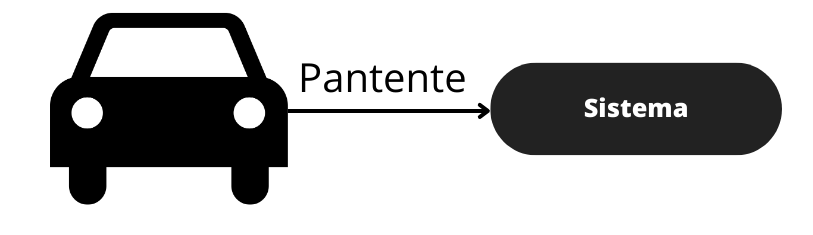
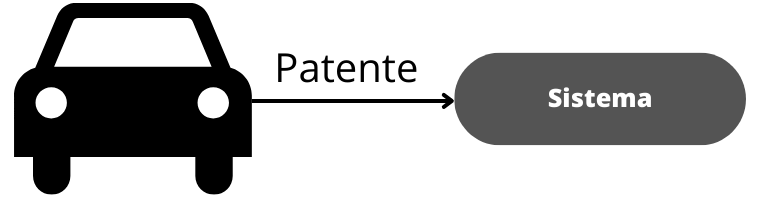
fix: correcciones cap 5 sofi

diff --git a/chapters/05-server/index.tex b/chapters/05-server/index.tex
@@ -1,20 +1,19 @@
 \chapter{Diseño e implementación del servidor}
 
-En este capítulo se explicara el diseño y la implementación del server. En la Fig. \ref{fig:server-final} se observa la versión final del servicio, mostrando la interacción entre los Clientes, los sistemas SL y el Server.
+En este capítulo se explicará el diseño y la implementación del server. En la Fig. \ref{fig:server-final} se observa la versión final del servicio, mostrando la interacción entre los Clientes, los sistemas SL y el Server.
 
 \begin{figure}[h]
     \centering
-    \includegraphics[width=.4\textwidth]{imgs/server-esquema.png}
+    \includegraphics[width=.6\textwidth]{imgs/server-esquema.png}
     \caption{Esquema final del servidor.}
     \label{fig:server-final}
 \end{figure}
 
-
 \section{Actualidad del desarrollo web}
 
-En la web existen dos grandes mundos, el Frontend el cual es la parte de la web con la que interactuan los usuarios o clientes. Otra parte fundamental es el Backend que es la parte que se conecta con la base de datos y ejecuta las validaciones necesarias para leer o escribir información. En general, el frontend y el backend suelen ser 2 proyectos separados y pueden ser construidos en diferentes lenguajes. Los lenguajes más utilizados son: JavaScript (JS), Python, Ruby, entre otros \cite{presta_10_2021}.
+En la web existen dos grandes mundos: el Frontend es la parte de la web con la que interactúan los usuarios o clientes. El Backend que es la parte que se conecta con la base de datos y ejecuta las validaciones necesarias para leer o escribir información. En general, el frontend y el backend suelen ser 2 proyectos separados y pueden ser construidos en diferentes lenguajes. Los lenguajes más utilizados son: JavaScript (JS), Python, Ruby, entre otros \cite{presta_10_2021}.
 
-En la actualidad el formato más utilizado para trasmitir información entre el Backend y el Frontend es JSON de sus siglas en inglés JavaScript Object Notation o traducido como notación de objetos de JavaScript. En la Fig. \ref{fig:ejemplo-json} se observa un ejemplo de JSON este tipo de notación se caracteriza por almacenar los datos en forma clave-valor, permitiendo que la busqueda de información sea facil.
+En la actualidad el formato más utilizado para trasmitir información entre el Backend y el Frontend se utiliza el formato JSON de sus siglas en inglés JavaScript Object Notation o traducido como notación de objetos de JavaScript. En la Fig. \ref{fig:ejemplo-json} se observa un ejemplo de JSON. Este tipo de notación se caracteriza por almacenar los datos en forma clave-valor, permitiendo que el acceso a la información sea rápido y sencillo.
 
 \begin{figure}
     \centering
@@ -23,20 +22,19 @@ En la actualidad el formato más utilizado para trasmitir información entre el 
     \label{fig:ejemplo-json}
 \end{figure}
 
-Hoy en día la web se ha transformado en la base de cualquier organización, hace años las organizaciones solían usar aplicaciones de escritorio, pero en la actualidad las aplicaciones web han ganado el mercado.
+Hoy en día la web se ha transformado en la base de cualquier organización, hace años las organizaciones solían usar aplicaciones de escritorio, pero en la actualidad las aplicaciones web han dominado el mercado.
 
 \section{Docker}
-
 
 Docker es una tecnología open source desarrollada por Docker Inc, la cual permite correr aplicaciones de forma aislada en contenedores.
 
 \subsection{¿Qué es un contenedor?}
 
-Un contenedor funciona casi como una máquina virtual, pero sin entorno gráfico y compartiendo el Kernel \cite{keepcoding_que_2022} con el sistema que lo hospeda, lo que hace que los contenedores sean más livianos y mucho más rápidos que una máquina virtual, ya que estas últimas emulan todo el sistema e incluyen un puente entren el kernel del sistema padre y el sistema emulado. Por lo que cada contenedor puede suele estar especializado para cumplir una determinada tarea, a esos contenedores se los suele llamar servicios.
+Un contenedor funciona casi como una máquina virtual, pero sin entorno gráfico y compartiendo el Kernel \cite{keepcoding_que_2022} con el sistema que lo hospeda, lo que hace que los contenedores sean más livianos y mucho más rápidos que una máquina virtual, ya que estas últimas emulan todo el sistema e incluyen un puente entren el kernel del sistema padre y el sistema emulado. Cada contenedor suele especializado para cumplir una determinada tarea, en general se los denomina servicios.
 
 \subsection{Docker Compose}
 
-Docker es una tecnología muy utilizada pero por si sola puede ejecutar un unico contenedor a la vez, es por ello que existen herramientas para la administración de multiples contenedores en simultanio. La más conocida, y muy utilizada en el mundo del desarrollo es Kubernetes [cita a kubernetes]. Debido a que el sistema no es lo suficientemente grande y no se cuenta con multiples servidores para alojar los servicios, la implementación se realizo mediante Docker Compose \cite{docker_inc_docker_2023}, el cual cumple un rol muy similar a Kubernetes, pero sin tanta complejidad extra que trae la opción de administrar multiples servidores.
+Docker es una tecnología muy utilizada, pero por si sola puede ejecutar un único contenedor a la vez, es por ello que existen herramientas para la administración de múltiples contenedores en simultáneo. La más conocida, y muy utilizada en el mundo del desarrollo, es Kubernetes. Debido a que el sistema no es lo suficientemente grande y no se cuenta con múltiples servidores para alojar los servicios, la implementación se realizó mediante Docker Compose \cite{docker_inc_docker_2023}, el cual cumple un rol muy similar a Kubernetes, pero sin tanta complejidad extra que trae la opción de administrar múltiples servidores.
 \begin{figure}
     \centering
     \includegraphics[width=.5\textwidth]{imgs/docker-compose.png}
@@ -44,95 +42,170 @@ Docker es una tecnología muy utilizada pero por si sola puede ejecutar un unico
     \label{fig:docker-compose-yml}
 \end{figure}
 
-El proceso de configuración de Docker compose se hace creando un archivo de extención YAML como el de la Fig. \ref{fig:docker-compose-yml}, se puede observar que existen 2 apartados principales.
+El proceso de configuración de Docker Compose se hace creando un archivo de extensión YAML como el de la Fig. \ref{fig:docker-compose-yml}. Se puede observar que existen 2 apartados principales.
 
 \subsubsection*{version}
 
-Este atributo le indica a Docker Compose que versión del archivo de configuración se esta utilizando, en general, esta versión impacta directamente en que atributos se pueden utilizar en el resto del archivo de configuración.
+Este atributo le indica a Docker Compose la versión del archivo de configuración que se está utilizando, en general, esta versión impacta directamente en qué atributos se pueden utilizar en el resto del archivo de configuración.
 
 \subsubsection*{services}
 
 Dentro del apartado de \textit{services} o por su traducción servicios se definen los servicios que se necesitaran, en este ejemplo se muestran 3 contenedores \textit{api}, \textit{front}, \textit{db}.
 
-A su vez dentro de cada uno se define el atributo \textit{image} el cual indica que imagen se utilizara, esta imagen puede ser creada por privada o se puede utilizar alguna de Docker Hub [link docker hub] el cual es un repositorio de imagenes de Docker.
-Las imagenes son en esencia un sistema operativo configurado para algunos entornos, por ejemplo la imagen \textit{node:18\-alpine} posee un sistema Alpine, que ya viene instalado con NodeJS en su versión 18, imagen muy utilizada para correr aplicación escritas en JS.
-Otro campo que destaca es el \textit{working\_dir} que es el directorio de trabajo y es donde se almacenara el código de la aplicación, es importante destacar que esta ruta se toma desde el contenedor, y no tiene porque ser una ruta valida desde el sistema Host.
-El atributo \textit{volumes} es un array que vincula una carpeta del sistema Host con una carpeta del contenedor, permitiendo acceder a la información del contenedor, esto es muy utilizado para realizar backup desde el sistema Host.
-Por último \textit{ports} es un array que vincula los puertos del sistema anfrition a los puertos del contenedor, lo que es sumamente útil cuando se desea escuchar un puerto especifico para manejar peticiones HTTP por ejemplo.
+A su vez dentro de cada uno se define el atributo \textit{image} el cual indica que imagen se utilizará. Dicha imagen puede ser privada o  se puede utilizar una imagen pública de Docker Hub el cual es un repositorio de imágenes de Docker.
+Las imágenes son en esencia un sistema operativo configurado para algunos entornos, por ejemplo la imagen \textit{node:18-alpine} posee un sistema Alpine, que ya viene instalado con NodeJS en su versión 18, imagen muy utilizada para correr aplicaciones escritas en JS.
+
+Otro campo que se destaca es el \textit{working\_dir} o directorio de trabajo y es donde se almacenará el código de la aplicación. Es importante destacar que esta ruta se toma desde el contenedor, y no tiene por qué ser una ruta válida desde el sistema Host.
+
+El atributo \textit{volumes} es un array que vincula una carpeta del sistema Host con una carpeta del contenedor, permitiendo acceder a la información del contenedor.
+Esto es muy utilizado para realizar backup desde el sistema Host.
+
+Por último \textit{ports} es un array que vincula los puertos del sistema anfitrión a los puertos del contenedor, lo que es sumamente útil cuando se desea escuchar un puerto específico para manejar peticiones HTTP, por ejemplo.
 
 \subsubsection*{intranet}
 
-Docker Compose genera una red interna para interconectar los contenedores, lo que permite que el servicio \textit{api} pueda acceder a la base de datos del servicio \textit{db} mediante la ruta \textit{mongodb://db:27017/sl}. La mayor ventaja de esta red es que hace inaccesible la base de datos para usuario que no estén dentro de la red de Docker, por lo que hace menos vulnerable al sistema.
+Docker Compose genera una red interna para interconectar los contenedores, lo que permite que el servicio \textit{api} pueda acceder a la base de datos del servicio \textit{db} mediante la ruta \textit{mongodb://db:27017/sl}. La mayor ventaja de esta red es que hace inaccesible la base de datos para usuario que no estén dentro de la red de Docker, disminuyendo la vulnerabilidad del sistema.
+
 
 \section{Servicios}
 
-Una vez que fue descripto como se hará la implementación y su arquitectura, se procederá a entender como fue creada la aplicación web en su totalidad, describiendo cada parte del sistema.
+Una vez que fue descripto cómo se hará la implementación y su arquitectura, se procederá a entender cómo fue creada la aplicación web en su totalidad, describiendo cada parte del sistema.
 
 \subsection{Base de datos}
 
-La base de datos elegida fue Mongo DB [documentacion de mongo], debido a que una de las bases de datos más utilizada. Mongo es una base de datos del tipo NoSQL y es basada en documentos, por lo tanto no posee vinculos fuertes entre los diferentes esquemas.
-Los datos se almacenan en BSON (binary JSON), el cual hace más fácil la transferencia de datos. Por otro lado, permite escalar de forma horizontal de forma mucho más sencilla, ya que se suelen usar identificadores únicos y no incrementales, como es frecuente en bases de datos del tipo SQL.
-
-
+La base de datos elegida fue Mongo DB, debido a que es una de las bases de datos más utilizada. Mongo es una base de datos basada en documentos, por lo tanto no posee vínculos fuertes entre los diferentes esquemas.
+Los datos se almacenan en BSON (binary JSON), el cual hace más fácil la transferencia de datos. Por otro lado, permite escalar de manera horizontal de forma más sencilla, ya que se suelen usar identificadores únicos y no incrementales, como es frecuente en bases de datos del tipo SQL.
 
 El esquema de base de datos [figura de la base de datos].
 
 \subsection{Broker MQTT}
 
-Debido a que Mosquitto es el broker MQTT más utilizado, el cual utiliza la versión 5.0 del protocolo. Elúnico tópico implementado en el de configuración de las barreras, este tópico tiene la forma de ``\textit{id}/config" donde \textit{id} es el id único de la barrera, esto permite de que existan tantos tópicos como barreras, y solo pueden escuchar los cambios de configuracíón de ellas, lo que permite ahorrar procesamiento de datos en la barrera.
+Debido a que Mosquitto es el broker MQTT más utilizado, el cual utiliza la versión 5.0 del protocolo. El único tópico implementado tiene la forma de ``\textit{id}/config" donde \textit{id} es un identificador único de la barrera, esto permite de que existan tantos tópicos como barreras, y solo pueden escuchar los cambios de configuración de ellas, lo que permite ahorrar procesamiento de datos en la barrera.
 
 \subsection{Backend}
 
-El Backend esta implementado en NestJS \cite{noauthor_documentacion_nodate}. Su principal función es la de administrar la información por que se conecta con la base de datos para realizar las tareas de lectura y escritura de documentos.
+El Backend está implementado en NestJS \cite{noauthor_documentacion_nodate}. Su principal función es la de administrar la información porque se conecta con la base de datos para realizar las tareas de lectura y escritura de documentos.
 
-Con la idea de generar la mayor documentación posible de este servicio se utilizo una libreria llamada Swagger el cual junto a NestJS genera documentación automatica de los las rutas HTTP. Esto facilita la tarea de crear una nueva aplicación asi como la de incluir una nueva persona al proyecto. El la Fig. \ref{fig:swagger-example} se observa como se ve la documentación generada por Swagger.
+Con la idea de generar la mayor documentación posible de este servicio se utilizó una librería llamada Swagger la cual, junto a NestJS, genera documentación automática de las rutas HTTP. Esto facilita la tarea de crear una nueva aplicación así como la de incluir una nueva persona al proyecto. En la Fig. \ref{fig:swagger-example} se observa como se ve la documentación generada por Swagger.
 
 \begin{figure}
     \centering
-
+    \includegraphics[width=\textwidth]{imgs/server/swagger.png}
     \caption{Documentación generada por Swagger.}
     \label{fig:swagger-example}
 \end{figure}
 
-Debido a la necesidad de autenticación de usuarios, y de los sistemas SL se implemento PassportJS [doc passport] la cual permite la creación de sistemas de validación de forma más sencilla. Los métodos de autenticación implementados fueron:
+Debido a la necesidad de autenticación de usuarios, y de los sistemas SL se implementó PassportJS que permite la creación de sistemas de validación de forma más sencilla. Los métodos de autenticación implementados fueron:
 
 \begin{enumerate}
     \item Usuario y contraseña: Utilizado para los usuarios que entran/registran desde la web.
     \item ApiKey de terceros: Una forma de validar si la aplicación que pide datos está autorizada o no.
-    \item ApiKey para barreras: Permite validar si la información del registro de entrada/salida esta siendo enviada por una barrera autorizada, además permite saber que barrera es la que envía los datos, diminuyendo el tamaño de la petición.
+    \item ApiKey para barreras: Permite validar si la información del registro de entrada/salida está siendo enviada por una barrera autorizada. Además permite saber qué barrera es la que envía los datos, diminuyendo el tamaño de la petición.
     \item Json Web Token o JWT: Se utiliza una vez que el usuario entra a la app, y es un hash generado por el servidor.
 \end{enumerate}
 
 \subsubsection*{JWT}
 
-JSON Web Token o simplemente JWT es un estandar qué esta dentro del documento RFC 7519. Su función principal es poder propagar información entre 2 partes de forma segura. En la practica los JWT son muy faciles de decencriptar por lo que se desaconseja incluir información sencible del usuario en el mismo.
+JSON Web Token o simplemente JWT es un estándar qué está dentro del documento RFC 7519. Su función principal es poder propagar información entre dos partes de forma segura. En la práctica los JWT son muy fáciles de desencriptar por lo que se desaconseja incluir información sensible del usuario en el mismo.
 
-\subsection{Analisis de imágenes}
+\subsection{Análisis de imágenes}
 
-Este servicio fue implementado con Flask [documentación de flask] el cual permite crear aplicaciones Backend en Python de forma facil y rapido. La función de este servicio es obtener la patente de la fotografía tomada por los sistemas SL mini, es por ello que solo tiene una ruta e internamente ejecuta el algoritmo visto en el capítulo 3.
+Este servicio fue implementado con Flask el cual permite crear aplicaciones Backend en Python de forma fácil y rápida. La función de este servicio es obtener la patente de la fotografía tomada por los sistemas SL mini, es por ello que solo tiene una ruta e internamente ejecuta el algoritmo visto en el capítulo 3.
 
 \subsection{Frontend}
 
-El Frontend fue construido en ReactJS [documentacion de React], la cual es una de las librería de JavaScript más utilizadas en la industria. La idea principal de este servicio es brindar un centro de control de las barreras, además de permitir la visualización de registros y datos. Además permite a los administradores crear barreras nuevas y visualizar sus parámetros.
+El Frontend fue construido en ReactJS, que es una de las librerías de JavaScript más utilizadas en la industria. La idea principal de este servicio es brindar un centro de control de las barreras, además de permitir la visualización de registros y datos. Además permite a los administradores crear barreras nuevas y visualizar sus parámetros.
 
 \subsubsection*{Páginas para los usuarios}
 
-Los usuarios puede registrarse y entrar a la plataforma como se ve en [referencia a figura de login y registro]. Luego del entrar pueden visualizar los estacionamientos que ellos poseen [figura del home], además de poder configurar los parametros de las barreras en tiempo real [figura de la configuracion de las barreras]. Los ususarios cuentan con un dashboard que les permite ver información resumida por el momento pueden ver horas estacionadas y vehiculos estacionados, separados por estacionamiento y visulizando el tiempo por día, mes o año esto puede observarse en la Fig. \ref{fig:dashboard}.
+Los usuarios puede registrarse y entrar a la plataforma como se ve en la Fig. \ref{fig:login}. Luego de ingresar pueden visualizar sus estacionamientos (Fig. \ref{fig:home}).
+
+Es posible configurar diversos parámetros del estacionamiento, como el nombre, ubicación y precio por hora (Fig. \ref{fig:update-place}).
+Para agregar versatilidad al sistema y permitir su uso para diferentes tareas se implementó un sistema de bloqueo de patentes (Fig. \ref{fig:in-type}), que permite bloquear todas las patentes salvo las que se encuentren en la lista o bloquear solo las que se encuentren en la lista. Adicionalmente pueden visualizar las barreras por barrio (Fig. \ref{fig:barrier-details}) y desde esta vista pueden configurar los parámetros de las mismas en tiempo real (Fig. \ref{fig:update-barrier}).
+
+Para la visualización y control de datos se crearon dos rutas.
+El Dashboard permite ver información resumida: horas estacionadas y cantidad de vehículos estacionados, separados por estacionamiento, filtrar los datos según fecha de inicio y fin, además permite agrupar los registros día, mes o año (Fig. \ref{fig:dashboard}).
+Por otro lado existe una vista de los registros crudos, dando información particular de cada registro (Fig. \ref{fig:registers})
 
 
 \begin{figure}
     \centering
+    \includegraphics[width=\textwidth]{imgs/server/login.png}
+    \caption{Inicio de sesión.}
+    \label{fig:login}
+\end{figure}
 
-    \caption{Panel de visualización de datos.}
+\begin{figure}
+    \centering
+    \includegraphics[width=\textwidth]{imgs/server/places.png}
+    \caption{Estacionamientos del cliente.}
+    \label{fig:home}
+\end{figure}
+
+\begin{figure}
+    \centering
+    \includegraphics[width=\textwidth]{imgs/server/update-place.png}
+    \caption{Formulario para actualizar un estacionamiento.}
+    \label{fig:update-place}
+\end{figure}
+
+
+\begin{figure}
+    \centering
+    \includegraphics[width=\textwidth]{imgs/server/in-type.png}
+    \caption{Vista de permisos.}
+    \label{fig:in-type}
+\end{figure}
+\begin{figure}
+    \centering
+    \includegraphics[width=\textwidth]{imgs/server/client-barriers-details.png}
+    \caption{Vista de los detalles.}
+    \label{fig:barrier-details}
+\end{figure}
+
+\begin{figure}
+    \centering
+    \includegraphics[width=\textwidth]{imgs/server/barrier-update-data.png}
+    \caption{Formulario para actualizar los datos de la barrera.}
+    \label{fig:update-barrier}
+\end{figure}
+
+\begin{figure}
+    \centering
+    \includegraphics[width=\textwidth]{imgs/server/resume.png}
+    \caption{Visualización de datos para un cliente con 2 estacionamientos.}
     \label{fig:dashboard}
 \end{figure}
 
-\subsubsection*{Pagínas para los administradores}
+\begin{figure}
+    \centering
+    \includegraphics[width=\textwidth]{imgs/server/registers.png}
+    \caption{Vista de registros.}
+    \label{fig:registers}
+\end{figure}
 
-Los administradores poseen una página para visualizar las barreras según cliente y lugar, permitiendo [figura de la pagina]. Por último, poseen una página para agregar barreras a un lugar [figura del form de agregar barrreras].
+
+
+\subsubsection*{Páginas para los administradores}
+
+Los administradores poseen una página para visualizar las barreras según cliente y lugar (Fig. \ref{fig:admin-details}). Por último, poseen una página para agregar barreras (Fig. \ref{fig:add-barrier}).
+
+\begin{figure}
+    \centering
+    \includegraphics[width=\textwidth]{imgs/server/admin-details.png}
+    \caption{Detalles de las barreras según cliente y estacionamiento.}
+    \label{fig:admin-details}
+\end{figure}
+
+\begin{figure}
+    \centering
+    \includegraphics[width=\textwidth]{imgs/server/add-barrier.png}
+    \caption{Formulario para agregar una barrera.}
+    \label{fig:add-barrier}
+\end{figure}
 
 \subsection{Nginx}
 
-Nginx es un servido web de código abierto que permite la implementación de proxy inverso, cache de HTTP, y balanceo de cargo, además de contar con una fácil configuración [documentacion de nginx].
-En este caso, la implementación de Nginx se utiliza para que la aplicación backend de NestJS y el Frontend esten corriendo en la misma IP, es decir, se utiliza la configuración de proxy inverso.
+Nginx es un servidor web de código abierto que permite la implementación de proxy inverso, cache de HTTP, y balanceo de cargo.
+Su implementación se utiliza como proxy inverso entre el Backend y el Frontend.
 

diff --git a/chapters/01-introduccion/fundamentos.tex b/chapters/01-introduccion/fundamentos.tex
@@ -6,4 +6,6 @@ Una problemática similar que afectó a las industrias a lo largo del mundo, las
 
 Muchas de estas ideas de industrias inteligentes, comenzaron a ser extrapoladas a otros aspectos de la vida cotidiana, dando paso a la idea de ciudades inteligentes. Esto se debe principalmente a los aportes en ahorro de recursos que pueden brindar. Dentro de los servicios fundamentales que debe afrontar una ciudad inteligente están: eficiencia energética y medioambiente, gestión de infraestructuras y edificios públicos, seguridad pública y movilidad urbana, siendo esta última  donde se busca generar un aporte, y una base para futuros trabajos. La idea general es integrar nuevas tecnologías, a una idea antigua, es decir, modificar el sistema de control de estacionamiento clásico, buscando la automatización. Este avance presenta mejoras tanto para los usuarios del sistema, que desean estacionar y pueden hacerlo de una forma más eficiente, gracias a la eliminación de intermediarios. Por otro lado, al dueño o administrador, ya que le permite llevar un control de rendimiento mucho más sencillo, permitiendo planificar de una mejor manera sus inversiones, dando datos estadísticos de uso reales de sus usuarios, como así también permitiendo generar promociones a clientes habituales basados en reglas simples, como horas semanales.
 
-Esta idea de un estacionamiento inteligente, está siendo explorada desde otros enfoques en diversos países a lo largo del mundo, por ejemplo control de espacios por sensores de ultrasonido \cite{rivera_arroyave_smartparkudea_2021}, plataforma inteligente de estacionamiento \cite{formoso_parkit_2014}, entre otros. Nuestro enfoque en cambio se centra en la visión artificial. Mediante la detección y reconocimiento de caracteres de imágenes tomadas desde una cámara, se busca reconocer y almacenar la patente de cada vehículo que ingresa y egresa del espacio destinado al estacionamiento.
+Esta idea de un estacionamiento inteligente, está siendo explorada desde otros enfoques en diversos países a lo largo del mundo, por ejemplo control de espacios por sensores de ultrasonido \cite{rivera_arroyave_smartparkudea_2021}, plataforma inteligente de estacionamiento \cite{formoso_parkit_2014}, entre otros.
+El enfoque de este trabajo se centrará en la visión artificial.
+Mediante la detección y reconocimiento de caracteres de imágenes tomadas desde una cámara, se busca reconocer y almacenar la patente de cada vehículo que ingresa y egresa del espacio destinado al estacionamiento.

diff --git a/chapters/02-sistema/index.tex b/chapters/02-sistema/index.tex
@@ -1,6 +1,6 @@
 \chapter{Diseño del sistema}
 
-En este capítulo se muestra el desarrollo general del sistema, comenzando por una visión superficial del sistema hasta obtener la versión final del sistema. En capítulos posteriores se mostrará el proceso de diseño e implementación del mismo. [puede ser que se incluya una versión final del sistema en una figura]
+En este capítulo se mostrara el desarrollo general del sistema, comenzando por una visión superficial del sistema hasta obtener la versión final del sistema. En capítulos posteriores se mostrará el proceso de diseño e implementación del mismo. [puede ser que se incluya una versión final del sistema en una figura]
 
 \section{Descripción general del sistema}
 
@@ -18,7 +18,7 @@ El requisito fundamental de este trabajo fue poder controlar el sistema de entra
     \label{fig:sistema-base}
 \end{figure}
 
-De estos requisitos se desprende la forma más general del sistema, la cual cuenta con sistema que detecte los caracteres del vehículo, le permita el acceso o el egreso del establecimiento al vehículo y basado en la hora de entrada y salida calcule el tiempo que estuvo el vehículo Fig. \ref{fig:sistema-base}. Existe un gran inconveniente a la hora de obtener el texto de la patente de una imagen y es el tiempo de procesamiento, es por ello que se utilizara un sensor de distancia para garantizar que existe un objeto a una determinada distancia la versión correspondiente del sistema se puede observar en la Fig. \ref{fig:sistema-completa}.
+De estos requisitos se desprende la forma más general del sistema, la cual cuenta con subsistema que detecta los caracteres del vehículo, le permita el acceso o el egreso del establecimiento al vehículo y basado en la hora de entrada y salida calcule el tiempo que estuvo el vehículo como se muestra en la Fig. \ref{fig:sistema-base}. Existe un gran inconveniente a la hora de obtener el texto de la patente de una imagen y es el tiempo de procesamiento, es por ello que se utilizara un sensor de distancia para garantizar que existe un objeto a una determinada distancia la versión correspondiente del sistema se puede observar en la Fig. \ref{fig:sistema-completa}.
 
 \begin{figure}
     \centering

diff --git a/chapters/03-ocr/index.tex b/chapters/03-ocr/index.tex
@@ -314,8 +314,22 @@ Para la implementación del algoritmo se utilizó el lenguaje Python 3, ya que e
 La lectura u obtención de una fotografía se realizó mediante OpenCV \cite{opencv_opencv_2023} ya que permite utilizar una gran variedad de fuentes tales como cámaras y archivos. Luego se procesa mediante la YoloV4 la cual devuelve la ubicación relativa de la patente en la imagen en un archivo de texto plano, para posteriormente leer el archivo de texto, junto con las dimensiones de la imagen y poder obtener la patente recortada. Antes de pasar el recorte a la CNN-OCR se la cambia a escala de grises y se la lleva al tamaño de $70 \times 140$ utilizando una interpolación lineal y se normalizan los valores de la imagen entre 0 y 1 usando OpenCV. Finalmente se procesa la imagen por la CNN-OCR obteniendo la patente en texto. En capítulos posteriores se explicará en mayor detalle que sucede con la imagen, y la patente obtenida (Fig. \ref{fig:pic-to-text}).
 
 
+\subsection{Prueba de rendimiento}
 
-
+Con la finalidad de dimensionar los tiempos de procesamiento del algoritmo de OCR se procesaron 10 imagenes luego se calculo el promedio para obtener el tiempo promedio por imagen en diferentes sistemas dando los resultados de la Tab. \ref{tab:ocr}.
+Luego de analizar los tiempos obtenidos se observa que la Raspberry Pi tarda demasiado en procesar una imagen, mientas que los otros sistemas poseen tiempo similares.
+\begin{table}
+    \centering
+    \begin{tabular}{ccccc}
+        \toprule
+                   & Raspberry Pi 3b+ & NVIDIA Jetson TX1 & Intel i5-11600K & Inter i5-1135G7 \\
+        \midrule
+        Tiempo [s] & 85.78            & 6.15              & 1.05            & 1.20            \\
+        \bottomrule
+    \end{tabular}
+    \caption{Tiempos obtenidos del procesamiento de 10 imágenes.}
+    \label{tab:ocr}
+\end{table}
 
 
 

diff --git a/chapters/04-hardware/index.tex b/chapters/04-hardware/index.tex
@@ -100,7 +100,7 @@ La disponibilidad de la placa en el mercado, fue un punto importante a considera
 implementación del sistema a mediana o gran escala o la necesidad de cambio por rotura de la misma, podían dejar el
 proyecto parado o inutilizado generando otros inconvenientes. Por otro lado, es posible migrar a un modelo más nuevo como la versión 4, sin tener que realizar grandes cambios en los drivers diseñados.
 
-Si bien las capacidades de la Raspberry son amplias, para este proyecto su poder de cómputo no fue suficiente para realizar por sí misma el procesamiento de la imagen en un tiempo menor a 11 segundos, ya que demora un aproximado de 1:30 minutos, tiempo que se consideró excesivo.
+Si bien las capacidades de la Raspberry son amplias, para este proyecto su poder de cómputo no fue suficiente para realizar por sí misma el procesamiento de la imagen en un tiempo menor a 11 segundos, como fue nombrado en el capítulo anterior.
 
 \subsection{Características del SL}
 
